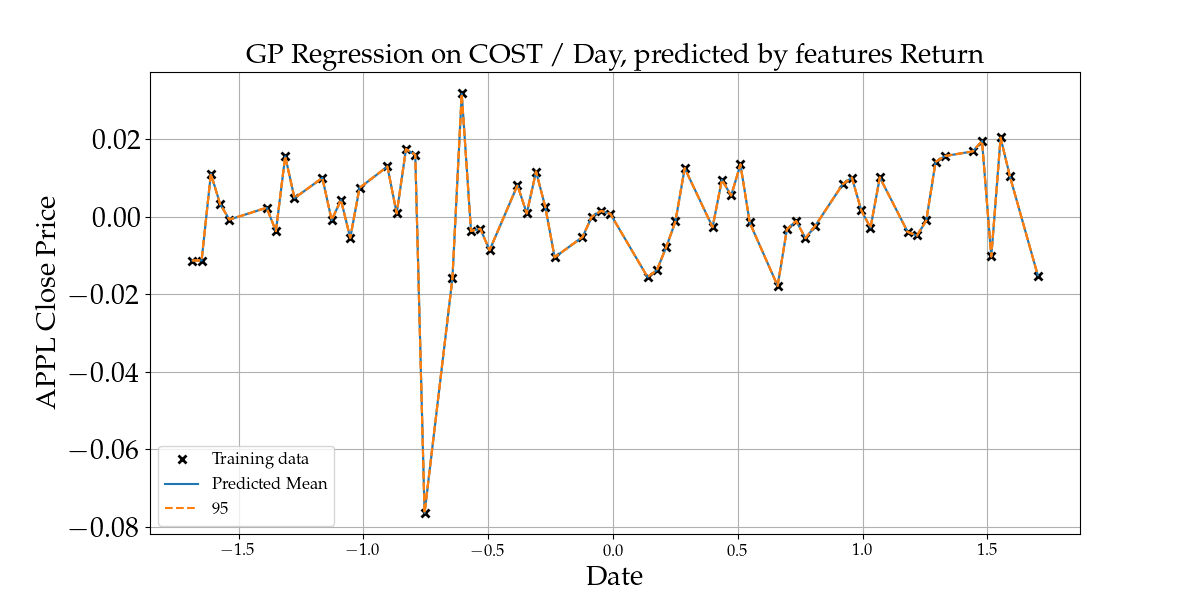
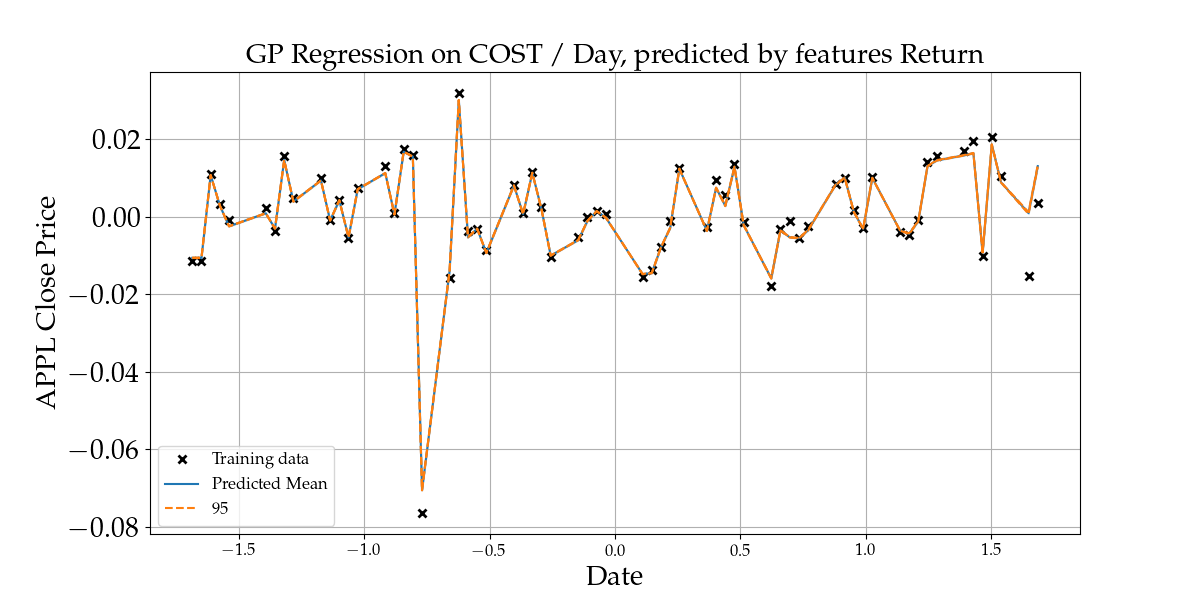
add cumulative return optimization for 2nd day
add cumulative return optimization for 2nd day

diff --git a/Multi-Input_GPR/main.py b/Multi-Input_GPR/main.py
@@ -52,8 +52,8 @@ class MultiInputGPR:
         # Calculate correlation
         corr_matrix = np.corrcoef([X, Y])
 
-        print("\nCorrelation Matrix:")
-        print(corr_matrix)
+        # print("\nCorrelation Matrix:")
+        # print(corr_matrix)
 
         return corr_matrix[0, 1]
 
@@ -337,7 +337,7 @@ class MultiInputGPR:
 
         visualizer.plot_GP(X_AAPL_full_tf, Y_actual, f_mean, f_cov, title=f"{self.ticker} / Day, predicted by features", filename=f'../plots/multi-input/future_predictions_{self.ticker}.png')
 
-        return [f_mean[-1][0], f_cov[-1][0]]
+        return [f_mean[-2:], f_cov[-2:]]
     
     def run_arima(self) -> None:
         
@@ -361,14 +361,14 @@ if __name__ == "__main__":
     train_start_date = '2024-02-10'
     train_end_date = '2024-05-10'
     test_start_date = '2024-05-13'
-    test_end_date = '2024-05-13'
+    test_end_date = '2024-05-14'
 
     ticker1 = 'JPM'
     ticker2 = 'AAPL'
-    ticker3 = 'LLY'
+    ticker3 = 'AMGN'
     ticker4 = 'HLT'
     ticker5 = 'COST'
-    assets = ['MSFT', 'TSLA', 'GOOGL', 'COST', 'XOM', 'PLD', 'NEE', 'Brent_Oil', 'DXY', 'BAC', 'SP500', 'NasDaq100']
+    assets = ['MSFT', 'TSLA', 'GOOGL', 'JNJ', 'XOM', 'PLD', 'NEE', 'Brent_Oil', 'DXY', 'BAC', 'SP500', 'NasDaq100']
 
     timeframes = ['d', 'w', 'm']
     predict_Y = 'return'
@@ -384,6 +384,8 @@ if __name__ == "__main__":
         
     ]
 
+    predicted_values_1 = []
+    predicted_variances_1 = []
     predicted_values = []
     predicted_variances = []
 
@@ -405,24 +407,35 @@ if __name__ == "__main__":
             isFixedLikelihood=False
         )
         predicted = multiInputGPR.run_step_3()
+        print(predicted)
+        predicted_values_1.append(predicted[0][0][0])
+        predicted_variances_1.append(predicted[1][0][0])
+        # calculate cumulative returns
         predicted_values.append(predicted[0])
         predicted_variances.append(predicted[1])
  
         #multiInputGPR.run_arima()
 
-    print(predicted_values)
-    cov = np.diag(predicted_variances)
-    optimizer = Optimizer(lambda_=0.01)
+    for i in range(len(predicted_values_1)):
+        print(f"Day 1 Predicted value: {predicted_values_1[i]}, Predicted variance: {predicted_variances_1[i]}")
+    
+    for i in range(len(predicted_values)):
+        print(f"Two Days Predicted value: {predicted_values[i]}, Predicted variance: {predicted_variances[i]}")
+    
+    print(predicted_values_1)
+    cov = np.diag(predicted_variances_1)
     print(cov)
+    optimizer = Optimizer(lambda_=0.01)
+    
 
-        # Risk-free rate (daily)
+    # Risk-free rate (daily)
     risk_free_rate = 0.01 / 252  
 
     max_volatility_threshold = 0.02  # Example threshold for maximum volatility
     min_return_threshold = 0.005 
 
-    # Set predictions
-    optimizer.set_predictions(predicted_values, predicted_variances, risk_free_rate)
+    # 1. Set predictions
+    optimizer.set_predictions(predicted_values_1, predicted_variances_1, risk_free_rate)
     # Optimize portfolio
     # threshold = 0.1
     #optimal_weights = optimizer.optimize_portfolio()
@@ -432,6 +445,7 @@ if __name__ == "__main__":
     optimal_weights_min_volatility = optimizer.minimize_uncertainty(min_return_threshold)
 
     portfolio_return, portfolio_volatility = optimizer.calculate_portfolio_performance(optimal_weights_max_sharpe)
+    print("########################## Portfolio for Day 1 ##########################")
     print(f"Optimal asset allocation (Sharpe ratio): {optimal_weights_max_sharpe}")
     print(f"Portfolio return: {portfolio_return:.4f}, Portfolio volatility: {portfolio_volatility:.4f}")
 
@@ -442,5 +456,26 @@ if __name__ == "__main__":
     portfolio_return_min, portfolio_volatility_min = optimizer.calculate_portfolio_performance(optimal_weights_min_volatility)
     print(f"Optimal asset allocation (Minimize Uncertainty): {optimal_weights_min_volatility}")
     print(f"Portfolio return: {portfolio_return_min:.4f}, Portfolio volatility: {portfolio_volatility_min:.4f}")
+    
+    # 2. Calculate cml for the second days, and optimize the portfolio based on the cumulative returns
+    optimizer.set_predictions_cml(predicted_values, predicted_variances, risk_free_rate)
+    optimal_weights_max_sharpe = optimizer.optimize_portfolio()
+    optimal_weights_max_return = optimizer.maximize_returns(max_volatility_threshold)
+    optimal_weights_min_volatility = optimizer.minimize_uncertainty(min_return_threshold)
+
+    portfolio_return, portfolio_volatility = optimizer.calculate_portfolio_performance(optimal_weights_max_sharpe)
+    print("########################## Portfolio for Day 2 ##########################")
+    
+    print(f"Optimal asset allocation (Sharpe ratio): {optimal_weights_max_sharpe}")
+    print(f"Portfolio return: {portfolio_return:.4f}, Portfolio volatility: {portfolio_volatility:.4f}")
+
+    portfolio_return_max, portfolio_volatility_max = optimizer.calculate_portfolio_performance(optimal_weights_max_return)
+    print(f"Optimal asset allocation (Maximize Returns): {optimal_weights_max_return}")
+    print(f"Portfolio return: {portfolio_return_max:.4f}, Portfolio volatility: {portfolio_volatility_max:.4f}")
+
+    portfolio_return_min, portfolio_volatility_min = optimizer.calculate_portfolio_performance(optimal_weights_min_volatility)
+    print(f"Optimal asset allocation (Minimize Uncertainty): {optimal_weights_min_volatility}")
+    print(f"Portfolio return: {portfolio_return_min:.4f}, Portfolio volatility: {portfolio_volatility_min:.4f}")
+    
     plt.show()
 

diff --git a/Multi-Input_GPR/data_handler.py b/Multi-Input_GPR/data_handler.py
@@ -73,8 +73,7 @@ class DataHandler:
     def process_data(self, file_type, ticker, period, start_date, end_date, predict_Y='return', normalize=True, isFetch=False, isDenoised=False, isFiltered=False):
         if isFetch:
             self.fetch_and_save_data(ticker, period, start_date, end_date)
-            #print(f'{ticker} data from {start_date} to {end_date} fetched and saved')
-        
+            
         file_path = f'../{file_type}/{ticker}/{ticker}_us_{period}.csv'
         df = pd.read_csv(file_path)
         df['date'] = pd.to_datetime(df['date'])
@@ -119,19 +118,7 @@ class DataHandler:
 
         X_tf, Y_tf, df['date'], (y_mean, y_std), (x_mean, x_std) = self.normalize_and_reshape(df, y_column=predict_Y)
 
-        # # Convert TensorFlow tensors to numpy arrays
-        # X_np = X_tf.numpy()
-        # Y_np = Y_tf.numpy()
         
-        # # Ensure Y is 2D
-        # if Y_np.ndim == 1:
-        #     Y_np = Y_np.reshape(-1, 1)
-        
-        # X = np.column_stack((X_np, Y_np))
-        # print(X_np.shape)  # (n, 1)
-        # print(Y_np.shape)   # (n, 1)
-        # print(X.shape)  # (n, 2)
-            
         return X_tf, Y_tf, df['date'], (y_mean, y_std), (x_mean, x_std)
     
     # Combine the arrays to vectorize the input

diff --git a/Multi-Input_GPR/portfolio_optimizer.py b/Multi-Input_GPR/portfolio_optimizer.py
@@ -25,7 +25,9 @@ class Optimizer:
         self.r_f = r_f
     
     def set_predictions_cml(self, predicted_returns, predicted_variances, r_f):
-        # Convert TensorFlow tensors to NumPy arrays and calculate cumulative returns
+        # Calculate cumulative returns for multiple time periods returns
+        # (1 + r1) * (1 + r2) * ... * (1 + rn) - 1
+        # Return an array of cumulative returns for each asset
         self.mu = np.array([np.prod([1 + ret.numpy() for ret in asset_returns]) - 1 
                             for asset_returns in predicted_returns])
         variances = np.array([np.sum([var.numpy() for var in asset_variances]) 
@@ -107,6 +109,8 @@ class Optimizer:
         )
         return result.x
     
+
+    
     def calculate_portfolio_performance(self, weights):
         """
         Calculate the portfolio return and volatility based on the given weights.
@@ -114,3 +118,5 @@ class Optimizer:
         portfolio_return = np.dot(self.mu, weights)
         portfolio_volatility = np.sqrt(np.dot(weights.T, np.dot(self.Sigma, weights)))
         return portfolio_return, portfolio_volatility
+    
+    

diff --git a/Multi-Input_GPR/model_trainer.py b/Multi-Input_GPR/model_trainer.py
@@ -19,7 +19,7 @@ class ModelTrainer:
         gpflow.set_trainable(model.likelihood, False)
         opt = gpflow.optimizers.Scipy()
         opt.minimize(model.training_loss, model.trainable_variables)
-        print_summary(model)
+        #print_summary(model)
 
         return model
     
@@ -38,9 +38,9 @@ class ModelTrainer:
             
             # Get the final loss
             final_loss = opt_logs.fun
-            print(f"\nModel trained with starting variance {start_var}:")
-            print_summary(model)
-            print(f"Final loss: {final_loss}")
+            #print(f"\nModel trained with starting variance {start_var}:")
+            #print_summary(model)
+            #print(f"Final loss: {final_loss}")
 
             # Keep the model with the lowest loss
             if final_loss < best_loss:
